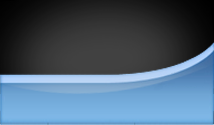
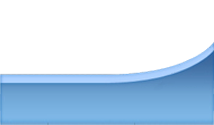
Add new images

diff --git a/index.html b/index.html
@@ -34,7 +34,7 @@ var _gaq = _gaq || {'push':function(){}} //here for testing. REPLACE BEFORE DEPL
 var myCreole;
 
 var app = {vars:{
-  "release":"20121214014813",  //increment this with each change. should solve caching issues. format: YYYYMMDDHHMMSS
+  "release":"20121214161402",  //increment this with each change. should solve caching issues. format: YYYYMMDDHHMMSS
   "_clientid":"zmvc",
   "baseURL":"",
   "httpsURL":"https://ssl.zoovy.com/s=www.antoniniknivesusa.com/",
@@ -110,7 +110,7 @@ app.u.loadScript(app.vars.baseURL+"_antoniniknives_init.js");
             <li><a href="#company?show=about" class='bindByAnchor' title='About Antonini'>About Antonini</a></li>
             <li><a href="#company?show=contact" class='bindByAnchor' title='Contact us'>Contact us</a></li>
             <li><a href="#customer?show=myaccount" class='bindByAnchor' title='My Account'>My Account</a></li>
-            <li><a href="#customer?cart" class='bindByAnchor' title='View Cart'>View Cart (4)</a><!-- TODO: add cart item num --></li>
+            <li><a href="#customer?cart" class='bindByAnchor' title='View Cart'>View Cart (<span class="cartItemCount">0</span>)</a><!-- TODO: add cart item num --></li>
           </ul>
           <span class="socialBox">
             <span class='socialIcon socialIconFacebook'><a href="http://www.facebook.com" target="_blank" title="Facebook link"></a></span><!-- TODO: get facebook name -->
@@ -128,6 +128,8 @@ app.u.loadScript(app.vars.baseURL+"_antoniniknives_init.js");
           <li><img src='images/home_slide_5.png'/></li>
         </ul>
       </div>
+      <div class="headerInner headerInnerLeft"></div>
+      <div class="headerInner headerInnerRight"></div>
     </header>
     <aside class="sidebar printNo">
       <nav class="navMenu">
@@ -343,6 +345,7 @@ don't modify the 'data-templateid' unless you are changing template names and up
   </div>
 
   <img data-bind="var: category(%page.CAT_THUMB); format: banner; editor: banner; height:250; width:750; extension: myRIA;" />
+  <img src='blank.gif' class='catThumb' data-bind='var: category(%meta.CAT_THUMB); format:imageURL;' width='35' height='35' />
   <img data-bind="var: category(%page.banner1); format: banner; editor: banner; height:250; width:750; extension: myRIA;" />
 
   <!-- used by wholesale -->
@@ -403,12 +406,18 @@ don't modify the 'data-templateid' unless you are changing template names and up
   -->
 </li>
 
+<li id='categoryListNoImagesTemplate' onMouseOver="$('.quickView',$(this)).show();$(this).addClass('navMenuSubHover');" onMouseOut="$('.quickView').hide();$(this).removeClass('navMenuSubHover');">
+  <div onClick="showContent('category',{'navcat':$(this).parent().attr('data-catsafeid')});" class='pointer'>
+    <div class='catName'><span data-bind='var: category(pretty); format:text;'></span></div>
+  </div>
+</li>
+
 
 <li id='categoryListTemplateRootCats'>
   <div onClick="showContent('category',{'navcat':$(this).parent().attr('data-catsafeid')});" class='pointer'>
     <div class='catName'><span data-bind='var: category(pretty); format:text;'></span></div>
   </div>
-  <!-- <ul data-bind="var: category(@subcategoryDetail); format: subcategory2LevelList; extension: store_navcats; loadsTemplate: categoryListNoImagesTemplate;" class='menuSubList'></ul> -->
+  <ul data-bind="var: category(@subcategoryDetail); format: subcategory2LevelList; extension: store_navcats; loadsTemplate: categoryListNoImagesTemplate;" class='menuSubList'></ul>
 
   <!-- Original
   <div onClick="showContent('category',{'navcat':$(this).parent().attr('data-catsafeid')});" class='pointer'>

diff --git a/_antoniniknives_styles.scss b/_antoniniknives_styles.scss
@@ -521,6 +521,27 @@ header {
   height: $height_header;
 }
 
+$width_headerInner: 90px;
+.headerInner {
+  width: $width_headerInner;
+  height: 100%;
+  position: absolute;
+  z-index: 1;
+}
+
+.headerInnerLeft {
+  background: url('images/bg_gradient_left.png') repeat-y;
+  background-size: $width_headerInner auto;
+  left: 0;
+}
+
+.headerInnerRight {
+  background: url('images/bg_gradient_right.png') repeat-y;
+  background-size: $width_headerInner auto;
+  right: 0;
+}
+
+
 .bannerHome {
   background: url('images/banner_bg_home.png') no-repeat;
   height: $height_header_home;
@@ -693,6 +714,7 @@ $menuOffset: -35px;
   // display: inline-block
   float: left;
   position: relative;
+  z-index: 98;
   top: $menuOffset;
   margin-bottom: $menuOffset;
   margin-right: $width_menu_right_margin;
@@ -714,6 +736,7 @@ $menuOffset: -35px;
   width: $width_menu;
   padding: $width_menu_padding;
   color: $color_menu_text;
+  // position: relative;
   h2 {
     margin: 1em 0 0.5em;
     padding: 0;
@@ -919,6 +942,7 @@ $pdfIconSize: 20px;
   // width: 214px;
   width: 100%;
   height: 125px;
+  position: relative;
   span {
     display: block;
   }
@@ -939,6 +963,12 @@ $wholesalePadtop: 10px;
   }
 }
 
+.wholesaleInfoBottom {
+  position: absolute;
+  bottom: 3px;
+  width: 100%;
+}
+
 /* Logo */
 
 .logoTop {
@@ -957,6 +987,8 @@ $wholesalePadtop: 10px;
   width: $width_content;
   display: inline-block;
   /*padding-left: 10px;*/
+  position: relative;
+  z-index: 99;
 }
 
 /* Footer */

diff --git a/_antoniniknives_styles.css b/_antoniniknives_styles.css
@@ -208,6 +208,22 @@ a:active {
 header {
   height: 386px; }
 
+.headerInner {
+  width: 90px;
+  height: 100%;
+  position: absolute;
+  z-index: 1; }
+
+.headerInnerLeft {
+  background: url("images/bg_gradient_left.png") repeat-y;
+  background-size: 90px auto;
+  left: 0; }
+
+.headerInnerRight {
+  background: url("images/bg_gradient_right.png") repeat-y;
+  background-size: 90px auto;
+  right: 0; }
+
 .bannerHome {
   background: url("images/banner_bg_home.png") no-repeat;
   height: 497px; }
@@ -334,6 +350,7 @@ header {
 .sidebar {
   float: left;
   position: relative;
+  z-index: 98;
   top: -35px;
   margin-bottom: -35px;
   margin-right: 10px;
@@ -488,7 +505,8 @@ header {
   font-size: 14px;
   text-align: center;
   width: 100%;
-  height: 125px; }
+  height: 125px;
+  position: relative; }
   .wholesaleInfo span {
     display: block; }
   .wholesaleInfo a {
@@ -501,6 +519,11 @@ header {
   font-weight: bold; }
   .wholesaleInfoTop strong {
     font-size: 24px; }
+
+.wholesaleInfoBottom {
+  position: absolute;
+  bottom: 3px;
+  width: 100%; }
 
 /* Logo */
 .logoTop {
@@ -515,7 +538,9 @@ header {
   /*vertical-align: top;*/
   width: 836px;
   display: inline-block;
-  /*padding-left: 10px;*/ }
+  /*padding-left: 10px;*/
+  position: relative;
+  z-index: 99; }
 
 /* Footer */
 footer {

diff --git a/quickstart.js b/quickstart.js
@@ -55,7 +55,9 @@ var myRIA = function() {
 			'faqTopicTemplate',
 			'faqQnATemplate',
 			'billAddressTemplate',
-			'shipAddressTemplate'],
+			'shipAddressTemplate',
+			'productListHomepageTemplateResults',
+			'categoryListNoImagesTemplate'],
 		"sotw" : {}, //state of the world. set to most recent page info object.
 		"hotw" : new Array(15), //history of the world. contains 15 most recent sotw objects.
 		"session" : {
